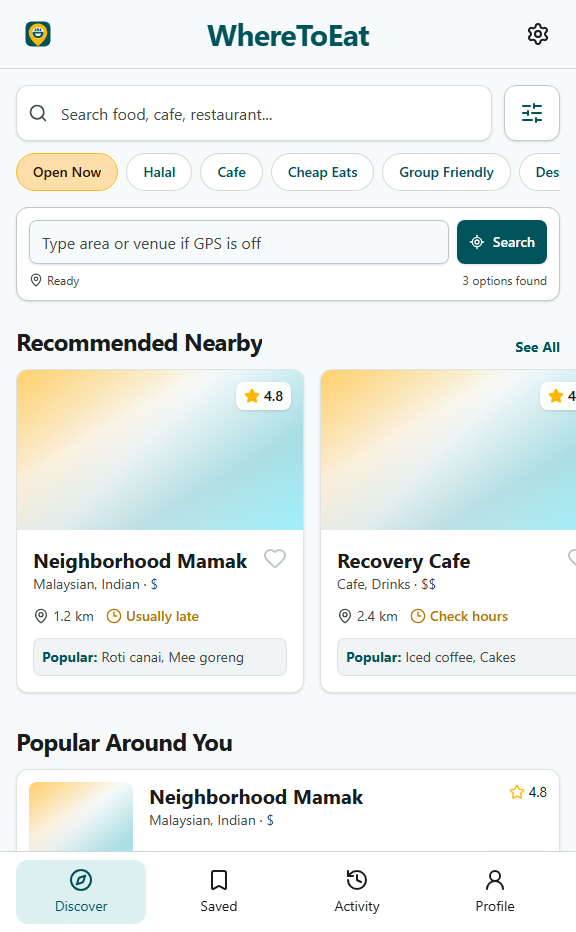
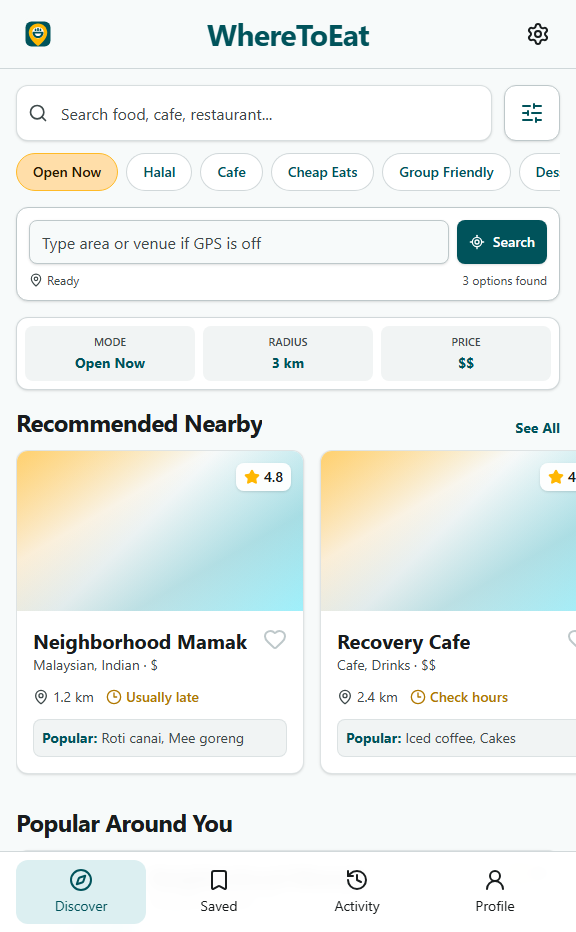
Polish app discovery experience

Changed region(s): [[0.0, 0.3423, 1.0, 0.9335]]

diff --git a/src/App.tsx b/src/App.tsx
@@ -68,14 +68,14 @@ const defaultPreferences: Preferences = {
 }
 
 const categories = [
-  'Open Now',
-  'Halal',
-  'Cafe',
-  'Cheap Eats',
-  'Group Friendly',
-  'Dessert',
-  'Late Night',
-]
+  { label: 'Open Now', query: '' },
+  { label: 'Halal', query: 'halal' },
+  { label: 'Cafe', query: 'cafe' },
+  { label: 'Cheap Eats', query: 'cheap' },
+  { label: 'Group Friendly', query: 'group' },
+  { label: 'Dessert', query: 'dessert' },
+  { label: 'Late Night', query: 'late night' },
+] as const
 
 const cuisineFilters = ['Malay', 'Chinese', 'Indian', 'Western', 'Japanese', 'Korean', 'Thai']
 
@@ -105,6 +105,7 @@ function readPreferences(): Preferences {
 function App() {
   const [preferences, setPreferences] = useState<Preferences>(() => readPreferences())
   const [foodQuery, setFoodQuery] = useState('')
+  const [activeCategory, setActiveCategory] = useState('Open Now')
   const [manualLocation, setManualLocation] = useState('')
   const [userLocation, setUserLocation] = useState<Coordinates | null>(null)
   const [permissionState, setPermissionState] =
@@ -127,6 +128,7 @@ function App() {
   const recommendedRestaurants = visibleRestaurants.slice(0, 4)
   const popularRestaurants = visibleRestaurants.slice(0, 6)
   const savedRestaurants = sampleRestaurants.slice(0, 3)
+  const hasResults = visibleRestaurants.length > 0
 
   const quickMapsUrl = useMemo(
     () =>
@@ -149,6 +151,16 @@ function App() {
 
   function updatePreferences(nextPreferences: Partial<Preferences>) {
     setPreferences((current) => ({ ...current, ...nextPreferences }))
+  }
+
+  function selectCategory(category: (typeof categories)[number]) {
+    setActiveCategory(category.label)
+    setFoodQuery(category.query)
+  }
+
+  function clearSearch() {
+    setFoodQuery('')
+    setActiveCategory('Open Now')
   }
 
   async function loadRestaurantResults(coordinates: Coordinates | null) {
@@ -268,7 +280,10 @@ function App() {
             <Input
               aria-label="Search food"
               value={foodQuery}
-              onChange={(event) => setFoodQuery(event.target.value)}
+              onChange={(event) => {
+                setFoodQuery(event.target.value)
+                setActiveCategory('')
+              }}
               placeholder="Search food, cafe, restaurant..."
               className="h-14 rounded-xl border-border/60 bg-card pl-11 text-base shadow-sm"
             />
@@ -394,18 +409,18 @@ function App() {
         </div>
 
         <div className="flex max-w-full gap-2 overflow-x-auto pb-1 [-ms-overflow-style:none] [scrollbar-width:none] [&::-webkit-scrollbar]:hidden">
-          {categories.map((category, index) => (
+          {categories.map((category) => (
             <button
-              key={category}
+              key={category.label}
               type="button"
-              onClick={() => setFoodQuery(index === 0 ? '' : category)}
+              onClick={() => selectCategory(category)}
               className={`shrink-0 rounded-full border px-4 py-2 text-sm font-semibold ${
-                index === 0
+                activeCategory === category.label
                   ? 'border-[#ffba27] bg-[#ffdea9] text-[#271900]'
                   : 'border-border/70 bg-card text-primary'
               }`}
             >
-              {category}
+              {category.label}
             </button>
           ))}
         </div>
@@ -449,20 +464,37 @@ function App() {
         </div>
       </section>
 
-      <section className="mt-2 space-y-3 overflow-hidden pl-4">
-        <SectionHeader title="Recommended Nearby" action="See All" />
-        <div className="flex w-full max-w-full gap-4 overflow-x-auto pb-4 pr-4 [-ms-overflow-style:none] [scrollbar-width:none] [&::-webkit-scrollbar]:hidden">
-          {recommendedRestaurants.map((restaurant) => (
-            <RecommendedCard
-              key={restaurant.id}
-              restaurant={restaurant}
-              onSelect={() => setSelectedRestaurant(restaurant)}
-            />
-          ))}
+      <section className="px-4">
+        <div className="grid grid-cols-3 gap-2 rounded-xl border border-border/70 bg-card p-2 text-center shadow-sm">
+          <StatusChip label="Mode" value={activeCategory || 'Custom'} />
+          <StatusChip label="Radius" value={`${preferences.radiusKm} km`} />
+          <StatusChip label="Price" value={preferences.priceLevel} />
         </div>
       </section>
 
-      <section className="mt-4 space-y-3 px-4">
+      {!hasResults ? (
+        <EmptyResults query={foodQuery} onClear={clearSearch} />
+      ) : null}
+
+      {hasResults ? (
+        <section className="mt-4 space-y-3 overflow-hidden pl-4">
+        <SectionHeader title="Recommended Nearby" action="See All" />
+        <div className="flex w-full max-w-full gap-4 overflow-x-auto pb-4 pr-4 [-ms-overflow-style:none] [scrollbar-width:none] [&::-webkit-scrollbar]:hidden">
+          {isLoadingPlaces
+            ? [1, 2].map((item) => <RecommendedSkeleton key={item} />)
+            : recommendedRestaurants.map((restaurant) => (
+                <RecommendedCard
+                  key={restaurant.id}
+                  restaurant={restaurant}
+                  onSelect={() => setSelectedRestaurant(restaurant)}
+                />
+              ))}
+        </div>
+        </section>
+      ) : null}
+
+      {hasResults ? (
+        <section className="mt-4 space-y-3 px-4">
         <SectionHeader title="Popular Around You" />
         <div className="grid gap-3">
           {popularRestaurants.map((restaurant) => (
@@ -473,7 +505,8 @@ function App() {
             />
           ))}
         </div>
-      </section>
+        </section>
+      ) : null}
 
       <section className="mt-6 space-y-3 px-4">
         <SectionHeader title="Saved Places" action="Open saved" />
@@ -492,10 +525,16 @@ function App() {
       <section className="mt-6 px-4">
         <Card className="rounded-xl">
           <CardHeader>
-            <CardTitle>Quick Maps search</CardTitle>
-            <CardDescription className="break-words">{quickMapsUrl}</CardDescription>
+            <CardTitle className="flex items-center gap-2">
+              <Navigation className="size-5 text-primary" aria-hidden="true" />
+              Quick Maps Search
+            </CardTitle>
+            <CardDescription>Food results on Google Maps</CardDescription>
           </CardHeader>
-          <CardContent>
+          <CardContent className="space-y-3">
+            <p className="rounded-lg bg-secondary p-3 text-xs leading-5 text-muted-foreground break-words">
+              {quickMapsUrl}
+            </p>
             <Button
               variant="outline"
               className="w-full rounded-lg"
@@ -529,6 +568,36 @@ function App() {
   )
 }
 
+function StatusChip({ label, value }: { label: string; value: string }) {
+  return (
+    <div className="rounded-lg bg-secondary px-2 py-2">
+      <p className="text-[11px] font-semibold uppercase text-muted-foreground">
+        {label}
+      </p>
+      <p className="mt-0.5 truncate text-sm font-bold text-primary">{value}</p>
+    </div>
+  )
+}
+
+function EmptyResults({ query, onClear }: { query: string; onClear: () => void }) {
+  return (
+    <section className="px-4 pt-5">
+      <div className="rounded-xl border border-border/70 bg-card p-6 text-center shadow-sm">
+        <div className="mx-auto flex size-14 items-center justify-center rounded-full bg-secondary">
+          <Search className="size-6 text-primary" aria-hidden="true" />
+        </div>
+        <h2 className="mt-4 text-xl font-bold">No matching places</h2>
+        <p className="mx-auto mt-2 max-w-xs text-sm leading-6 text-muted-foreground">
+          {query ? `No picks for "${query}" right now.` : 'No picks available right now.'}
+        </p>
+        <Button onClick={onClear} className="mt-4 rounded-lg">
+          Reset Search
+        </Button>
+      </div>
+    </section>
+  )
+}
+
 function SectionHeader({ title, action }: { title: string; action?: string }) {
   return (
     <div className="flex min-w-0 items-end justify-between gap-3 pr-4">
@@ -538,6 +607,22 @@ function SectionHeader({ title, action }: { title: string; action?: string }) {
           {action}
         </button>
       ) : null}
+    </div>
+  )
+}
+
+function RecommendedSkeleton() {
+  return (
+    <div className="w-72 shrink-0 overflow-hidden rounded-xl border border-border/50 bg-card shadow-sm">
+      <div className="h-40 animate-pulse bg-secondary" />
+      <div className="space-y-3 p-4">
+        <div className="h-5 w-44 animate-pulse rounded bg-secondary" />
+        <div className="h-4 w-32 animate-pulse rounded bg-secondary" />
+        <div className="flex gap-3">
+          <div className="h-4 w-16 animate-pulse rounded bg-secondary" />
+          <div className="h-4 w-24 animate-pulse rounded bg-secondary" />
+        </div>
+      </div>
     </div>
   )
 }
